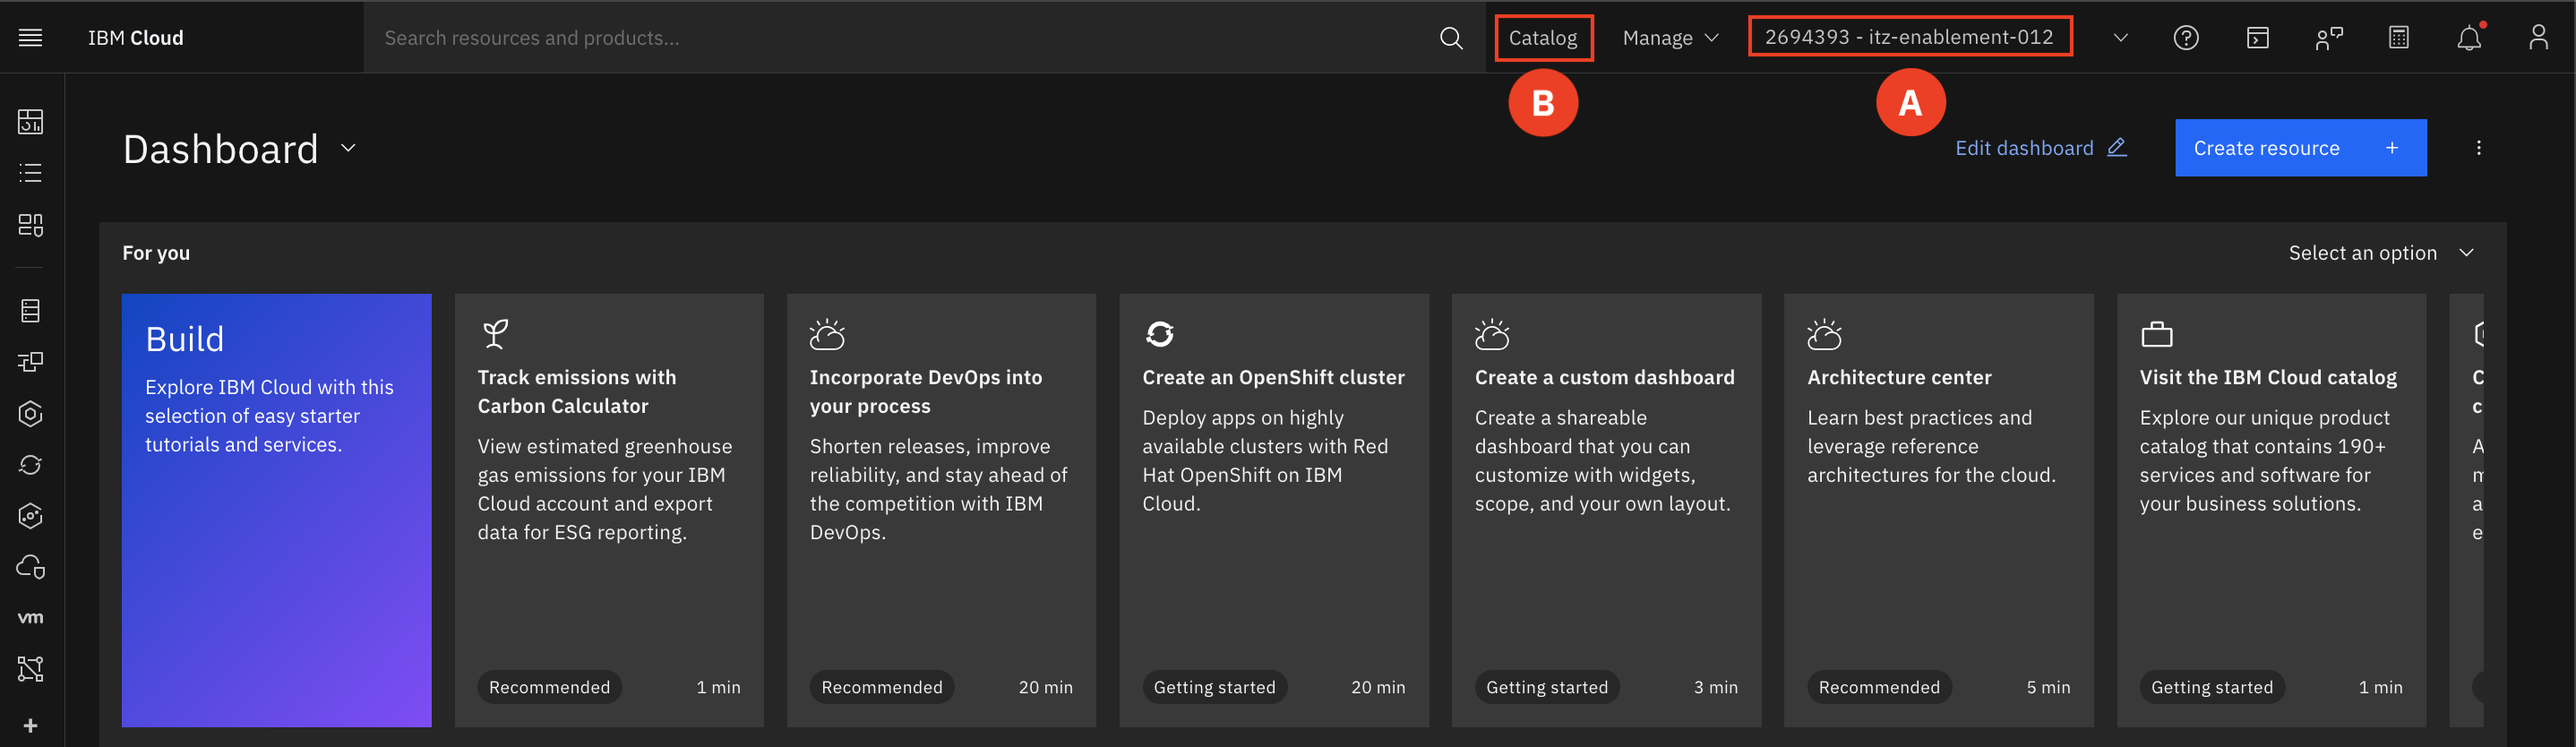
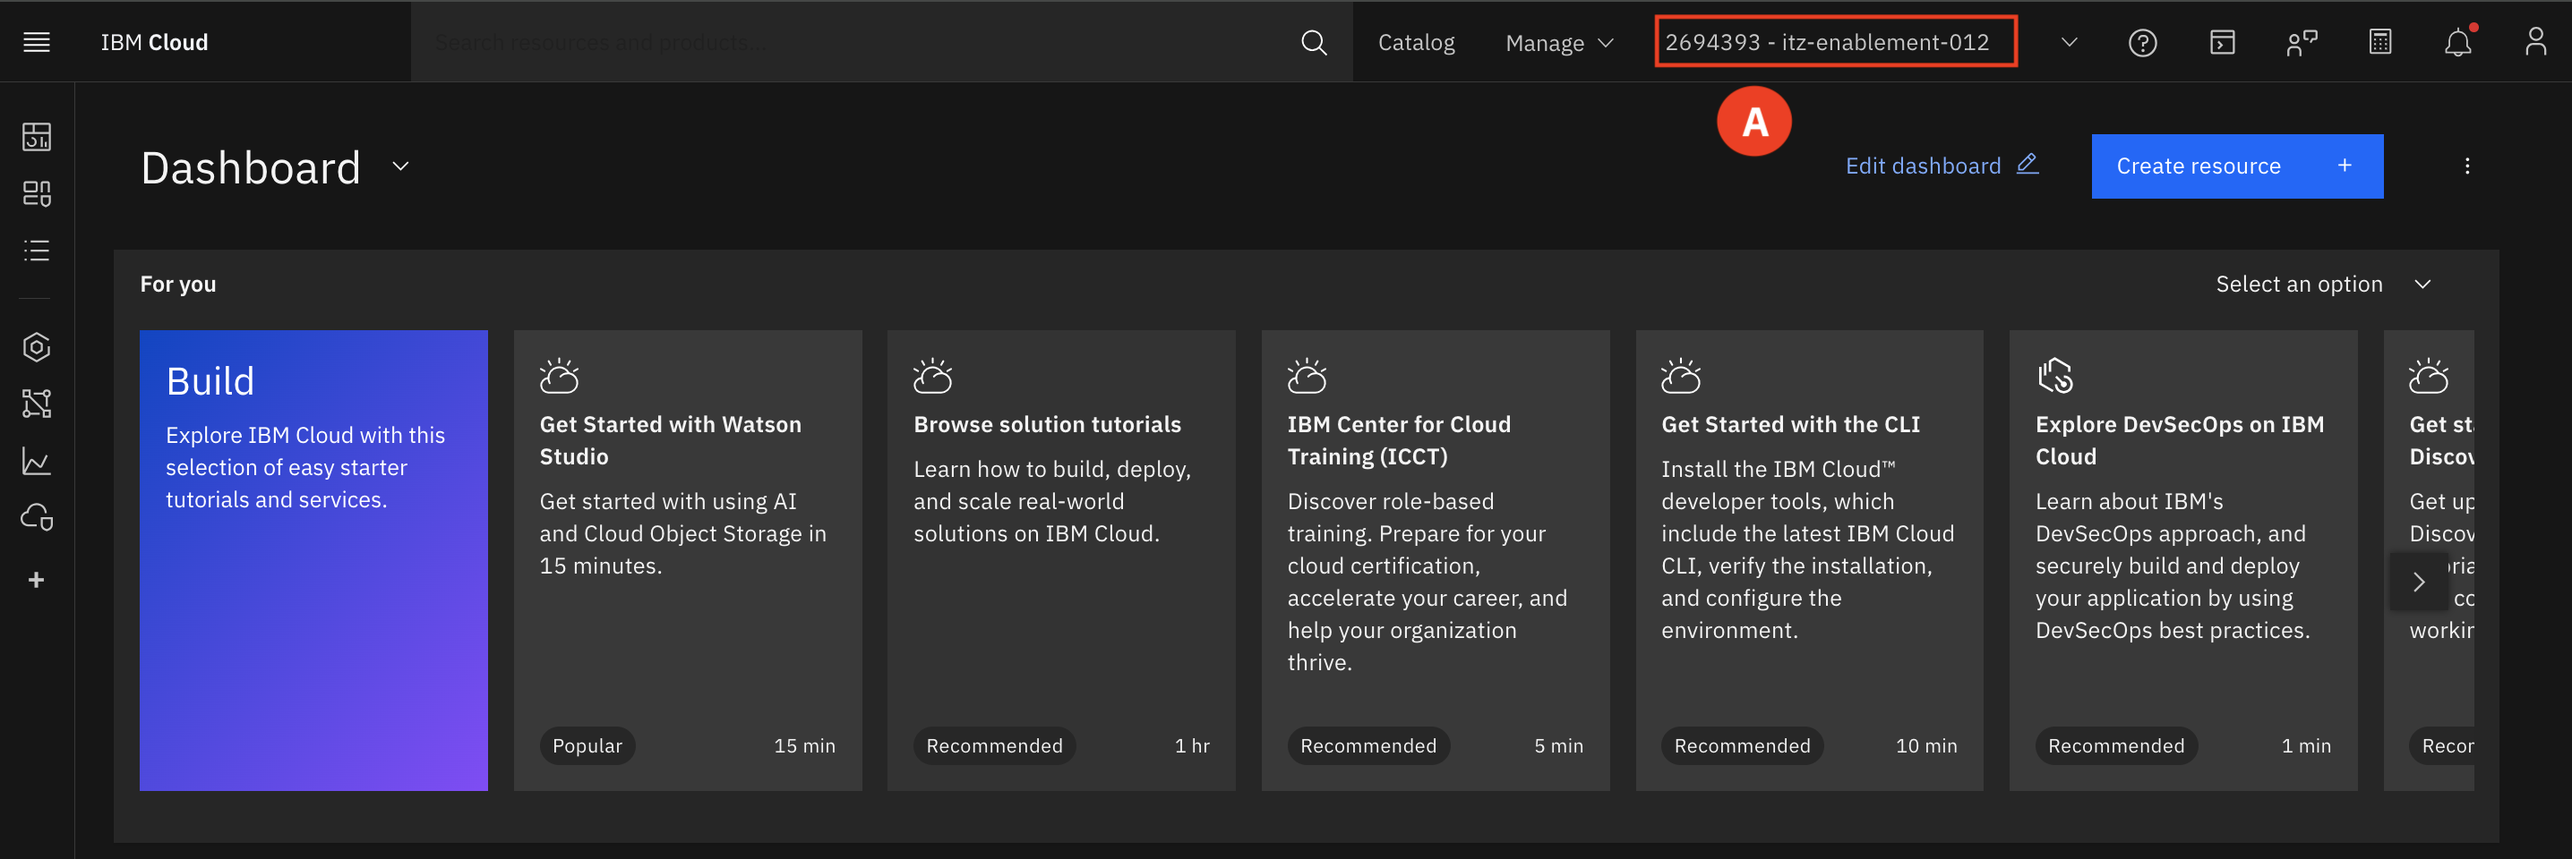
various updates

diff --git a/docs/lab/0_1-deploy-stack.md b/docs/lab/0_1-deploy-stack.md
@@ -5,7 +5,7 @@ ______
 
 Retrieval augmented generation (RAG) is an AI framework for improving the quality of LLM-generated responses by grounding the model on external sources knowledge to supplement the LLM’s internal representation of information.
 
-On the Dashboard of the Cloud account, first make sure you are on the **itz-enablement-012 account (A)**. When ready, select **Catalog (B)**.
+On the Dashboard of the Cloud account, first make sure you are on the **itz-enablement-012 account (A)**.
     ![alt text](../images/0.0.0.png)
 
 1. Expand the **Navigation menu (A)** on the upper right-hand corner. Select **Projects (B)**
